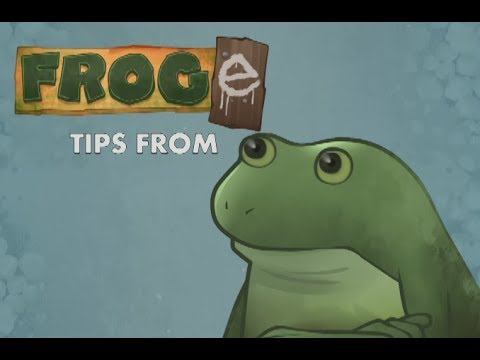
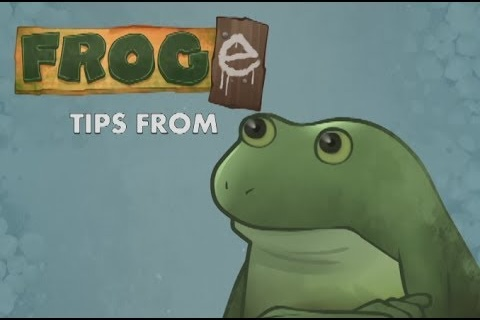
entertainment: fix the aspect ratio of the Bufo video

diff --git a/src/entertainment/2026-01-30-who-is-bufo.md b/src/entertainment/2026-01-30-who-is-bufo.md
@@ -180,8 +180,8 @@ That includes a description, several more screenshots, and a video.
 The video is broken on that page, but it's an embedded YouTube video, and the original video page has also [been captured by the Wayback Machine][wb-youtube-video].
 It leans even harder into the Doge memes, and includes some brief clips of gameplay:
 
-<figure style="width: 480px;">
-  <video controls poster="/images/2026/Froge Tips from Froge [AC-grTPpQ2Y].jpg" src="/images/2026/Froge Tips from Froge [AC-grTPpQ2Y].mp4" class="screenshot" style="aspect-ratio: 480 / 360; width: 480px;"></video>
+<figure style="width: 540px;">
+  <video controls poster="/images/2026/Froge Tips from Froge [AC-grTPpQ2Y].jpg" src="/images/2026/Froge Tips from Froge [AC-grTPpQ2Y].mp4" class="screenshot" style="aspect-ratio: 540 / 360; width: 540px;"></video>
   <figcaption>
     <em>Froge Tips from Froge</em> by Fandom, Inc.
     Originally posted at <a href="https://www.youtube.com/watch?v=AC-grTPpQ2Y">on YouTube</a> in June 2014, and downloaded from <a href="https://web.archive.org/web/20240508235850/youtube.com/watch?v%3DAC-grTPpQ2Y">the Wayback Machine</a> in January 2026.
